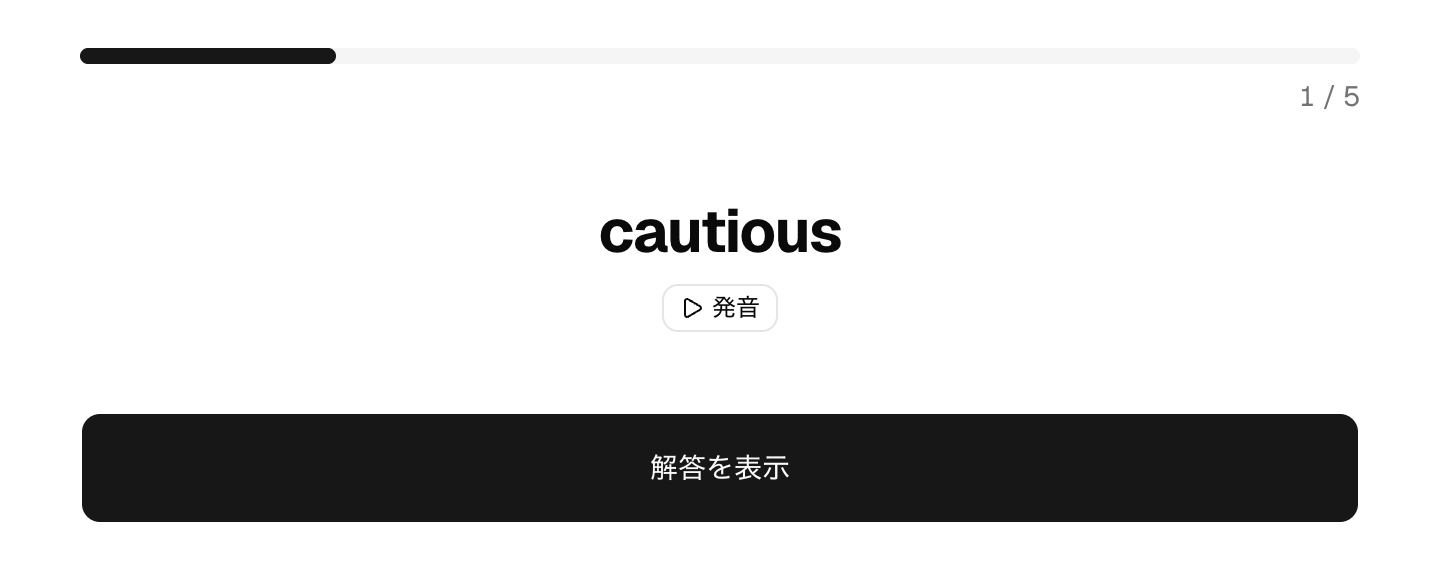
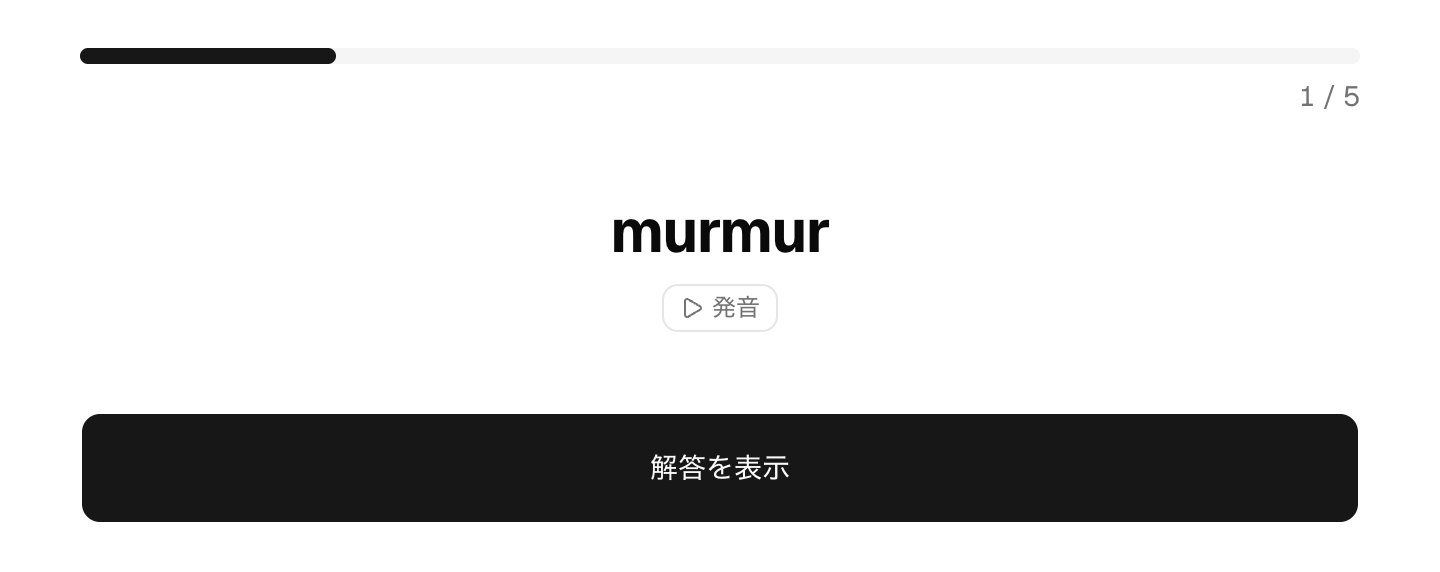
feat: 発音ボタンで登録済み音源と自動音声を見分けられるようにする
登録済みの発音音源（信頼できる正しい発音）と端末内蔵の自動音声(TTS)が
同じ見た目で、どちらを聞いたのか区別できなかった。

音源ありはマイクアイコン＋通常コントラストの枠線、自動音声は三角の再生
アイコン＋muted な文字色にして描き分ける。ラベル文字は両方「発音」のまま
にして一覧・テスト画面の並びを崩さない。テーマが完全モノクロで色相を使え
ないため濃淡で差を付け、それだけでは弱いので形（アイコン）でも冗長に区別
する。aria-label / title でも出し分ける。

判断の経緯と却下した代替案は ADR-0076 に記録。設定「単語全般」の説明文と
機能紹介ドキュメントに見分け方を追記し、発音ボタンが写るスクリーンショット
を再撮影した。

Changed region(s): [[0.4062, 0.3566, 0.5938, 0.4458], [0.4688, 0.5052, 0.5312, 0.5647]]

diff --git a/src/components/audio-play-button.tsx b/src/components/audio-play-button.tsx
@@ -1,6 +1,6 @@
 "use client";
 
-import { PauseIcon, PlayIcon } from "lucide-react";
+import { MicIcon, PauseIcon, PlayIcon } from "lucide-react";
 import { useEffect, useRef, useState, useSyncExternalStore } from "react";
 import { toast } from "sonner";
 
@@ -50,6 +50,13 @@ type AudioPlayButtonProps = {
  * - どちらも無ければ何も描画しない（`reserveSpaceWhenEmpty` 指定時は同寸の不可視
  *   プレースホルダでスロットを確保する）。
  * click で play / 再 click で停止。`playing` 表示は音源・自動音声で共用する。
+ *
+ * 音源と自動音声は「信頼できる発音か」が違うため見た目でも区別する（ラベル文字は
+ * 変えない ＝ 一覧の列幅がズレないことを優先）。区別は形（アイコン）と濃淡の両方で
+ * 付ける（テーマが完全モノクロで色相を使えず、濃淡だけだと弱いため）。
+ * - 音源あり: マイクアイコン＋通常コントラストの枠線（＝登録済みの正しい発音）
+ * - 自動音声: 再生アイコン＋muted な文字色（＝端末合成の代用）
+ * aria-label / title でも同じ区別を伝える（アイコンと濃淡だけに頼らない）。
  */
 export function AudioPlayButton({
   src,
@@ -127,10 +134,22 @@ export function AudioPlayButton({
       variant="outline"
       size="xs"
       onClick={toggle}
-      aria-label={`${label}を再生`}
+      aria-label={hasAudio ? `${label}を再生` : `${label}を自動音声で再生`}
       aria-pressed={playing}
+      title={
+        hasAudio
+          ? "登録済みの発音音源を再生します"
+          : "発音音源が未登録のため、端末内蔵の自動音声で読み上げます"
+      }
+      // outline の hover:text-foreground / dark:border-input を上書きするため、
+      // 同じ variant の指定を className 側に置いて tailwind-merge に勝たせる。
+      className={
+        hasAudio
+          ? "border-foreground/30 dark:border-foreground/30"
+          : "text-muted-foreground hover:text-muted-foreground"
+      }
     >
-      {playing ? <PauseIcon /> : <PlayIcon />}
+      {playing ? <PauseIcon /> : hasAudio ? <MicIcon /> : <PlayIcon />}
       <span>{label}</span>
       {hasAudio ? (
         <audio

diff --git a/src/app/settings/general/_components/general-settings-form.tsx b/src/app/settings/general/_components/general-settings-form.tsx
@@ -55,7 +55,8 @@ export function GeneralSettingsForm({ ttsFallbackEnabled, children }: Props) {
         <p className="text-muted-foreground text-xs">
           オンにすると、発音音源が登録されていない単語でも、端末内蔵の音声で読み上げる再生ボタンが
           表示されます（発音音源が登録されている場合は常にそちらを再生します）。音声の品質や声は
-          端末・ブラウザによって異なり、未対応の端末では表示されません。
+          端末・ブラウザによって異なり、未対応の端末では表示されません。自動音声のボタンは
+          三角の再生アイコンで薄い表示になり、登録済みの発音音源のボタン（マイクのアイコン）と区別できます。
         </p>
         <p className="text-muted-foreground text-xs">
           自動音声の再生には、端末側の音声合成（テキスト読み上げ）機能と英語の音声データが必要です。

diff --git a/docs/adr/0076-audio-source-visual-distinction.md b/docs/adr/0076-audio-source-visual-distinction.md
@@ -1,0 +1,43 @@
+# ADR-0076: 発音ボタンは登録済み音源と自動音声を「アイコン＋濃淡」で区別する（ラベル文字は変えない）
+
+- ステータス: 提案
+- 確信度: 高
+- 起票日: 2026-08-03
+
+## 背景
+
+発音音源が未登録のときは端末内蔵の自動音声（TTS）で代用する（[ADR-0046](0046-tts-fallback.md)）。ただし再生ボタンの見た目は音源・自動音声とも同一（`▶ 発音`）で、**ユーザーはいま聞いた発音が信頼できるもの（登録済み音源）なのか、端末合成の代用なのかを区別できなかった**。学習用途では「正しい発音として覚えてよいか」が判断できる必要がある。
+
+## 決定内容
+
+`AudioPlayButton`（`src/components/audio-play-button.tsx`）で、音源あり／自動音声を**形（アイコン）と濃淡の両方**で描き分ける。ラベル文字列は両方「発音」のまま変えない。
+
+- 音源あり: マイクアイコン ＋ 通常コントラストの枠線（`border-foreground/30`）
+- 自動音声: 再生（▶）アイコン ＋ muted な文字色（`text-muted-foreground`）
+- `aria-label` を出し分け（`発音を再生` / `発音を自動音声で再生`）、`title` で根拠を補足する
+
+制約と理由:
+
+- **ラベル文字数を変えない**。発音ボタンは単語一覧・単語テストの密なレイアウトに並ぶため、文字数が変わると行内の並びが崩れる。
+- **色相を使わない**。テーマは完全モノクロ（`--primary` 含め全トークンが彩度 0、例外は `--destructive` のみ）で、アクセント色という概念が無い。差は濃淡で付ける。
+- **濃淡だけにしない**。モノクロで付けられる濃淡差は弱く、色覚特性・低コントラスト環境で伝わらない可能性がある。形（アイコン）でも冗長に区別する。
+
+## 採らなかった代替案
+
+- **ラベルを出し分ける（`発音` / `自動音声`）** — 意味は最も明快だが、一覧行・テスト画面でボタン幅が変わりレイアウトに影響する。ユーザーの明示的な要件（文字数を増やさない）と衝突するため却下。
+- **音源ありにバッジ（✓ 等）を足す** — 幅が増えるうえ、マークの意味が初見で伝わらず凡例が要る。
+- **色相（緑・青など）で区別** — モノクロのデザインシステムに新しい色相を持ち込むことになり、既存の配色規約（`destructive` 以外は無彩色）から外れる。
+- **アイコンだけ／濃淡だけ** — どちらか一方では小サイズ（`size="xs"`、アイコン 12px）で気づきにくい。
+
+## 影響
+
+- 発音ボタンが出る全画面（単語一覧・単語詳細・単語テストの出題／選択肢／結果一覧・音源管理の「試聴」）で見た目が変わる。`docs/features/` のスクリーンショットは再撮影が必要。
+- 音源管理画面の「試聴」ボタンは常に音源ありのため、常にマイク表示になる。
+- ユーザーが「マイク = 登録済み音源」を学習できるよう、設定画面（単語全般）の自動音声の説明文と `docs/features/` に見分け方を明記した。
+
+## 根拠（コード・文書参照）
+
+- `src/components/audio-play-button.tsx` — 描き分けの実装（`hasAudio` 分岐）
+- `src/app/globals.css` — テーマトークンが全て彩度 0（色相を使えない根拠）
+- [ADR-0046](0046-tts-fallback.md) — 音源優先・TTS は代替という前提
+- `docs/features/word-management.md` / `docs/features/settings.md` — ユーザー向けの見分け方の説明

diff --git a/docs/features/settings.md b/docs/features/settings.md
@@ -22,7 +22,9 @@
 単語全般では、発音音源が未登録の単語の読み上げ方法を設定します。「発音音源が未登録のとき自動音声で
 発音する」をオンにすると、発音音源が登録されていない単語でも、端末内蔵の音声（テキスト読み上げ）で
 再生ボタンが表示されます。発音音源が登録されている単語では常にそちらを再生します。自動音声の品質や声は
-端末・ブラウザによって異なり、機能に未対応の端末では再生ボタンは表示されません。
+端末・ブラウザによって異なり、機能に未対応の端末では再生ボタンは表示されません。自動音声のボタンは
+三角の再生アイコンで薄い表示になり、登録済みの発音音源のボタン（マイクのアイコン・はっきりした枠線）と
+区別できます。
 
 同じ画面の「発音音源のダウンロード」では、自分が使える発音音源（共通の単語帳のものを含む）を
 まとめて端末に保存できます。保存しておくと、圏外や機内モードでも発音を再生でき、以後の再生では

diff --git a/docs/adr/README.md b/docs/adr/README.md
@@ -110,6 +110,7 @@
 | [0046](0046-tts-fallback.md) | TTS フォールバック（mp3 優先） | 高 | — |
 | [0047](0047-quiz-audio-autoplay-preload.md) | quiz 中の自動再生 + プリロード、失敗非ブロック | 高 | — |
 | [0075](0075-audio-local-cache-and-prefetch.md) | SW cache-first で端末に保持 + 設定画面から一括プリフェッチ（掃除は manifest 差分） | 高 | — |
+| [0076](0076-audio-source-visual-distinction.md) | 発音ボタンは音源／自動音声をアイコン＋濃淡で区別（ラベル文字は変えない） | 高 | — |
 
 ### G. 認証・デプロイ・運用
 
